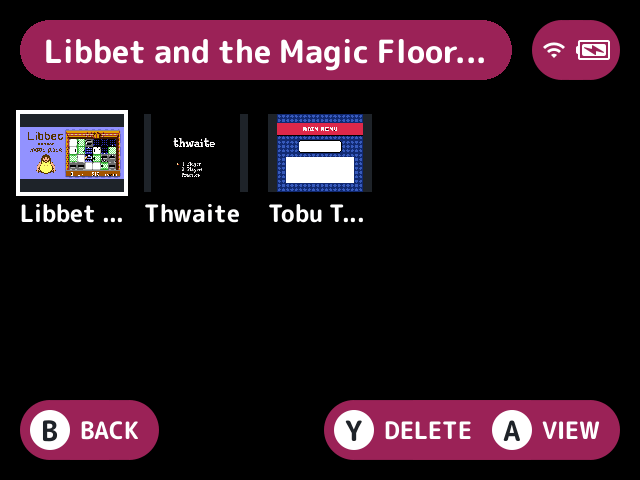
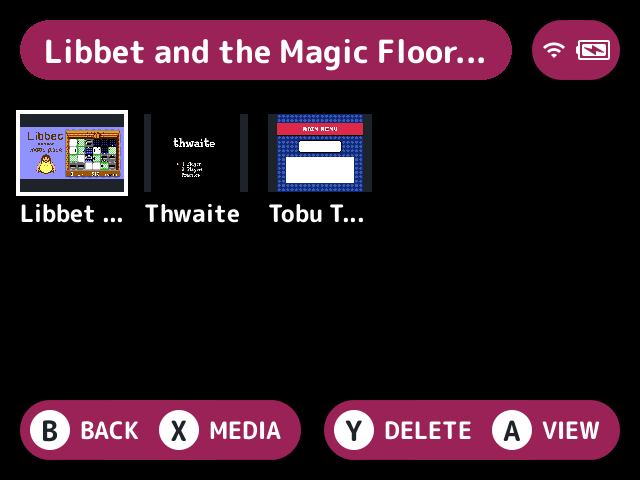
docs: retake screenshot-viewer's shots
The grid's shot shows its new X MEDIA hint, and a new shot shows a game's media.

Changed region(s): [[0.2188, 0.8125, 0.4688, 0.9688]]

diff --git a/plugins/screenshot-viewer/README.md b/plugins/screenshot-viewer/README.md
@@ -54,6 +54,10 @@ A screenshot across the screen.
 
 ![A screenshot across the screen](docs/full.png)
 
+A game's media, from Y on Tobu Tobu Girl Deluxe in the game list, on its screenshot.
+
+![A game's media, from Y on Tobu Tobu Girl Deluxe in the game list, on its screenshot](docs/media.png)
+
 The Screenshots tile on the quick menu (on by default).
 
 ![The Screenshots tile on the quick menu (on by default)](docs/tile.png)
